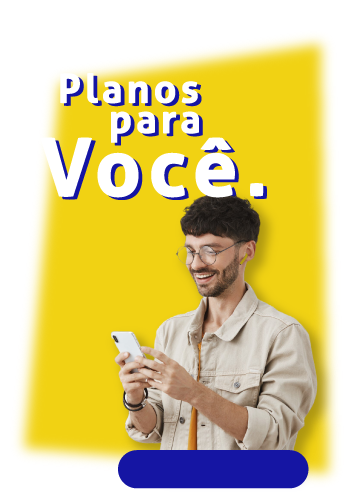
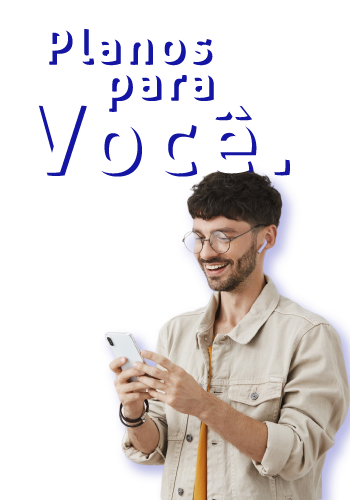
update

diff --git a/public/index.html b/public/index.html
@@ -795,14 +795,17 @@ Suporte 24/7</p>
 <h1>Planos para sua casa</h1>
 <div class="plans">
 
+    <br><br>
+    <img src="https://feitosa-github-io.vercel.app/assets/plan_titulo_casa.png" class="Planos-casa" alt="Descrição-planos-casa">
+    <br>
+    
 <div class="plan">
     <img src="https://feitosa-github-io.vercel.app/assets/plan_150.png" class="picplan" alt="Plano 150mega">       
     <img src="https://feitosa-github-io.vercel.app/assets/descri_plans_.png" class="Descrição" alt="Descrição-planos">
     <br>
     <button class="assine">Saiba mais!</button>
 </div>
-<br><br>
-    <img src="https://feitosa-github-io.vercel.app/assets/plan_titulo_casa.png" class="Planos-casa" alt="Descrição-planos-casa">
+
 <br>
 <div class="plan">
     <img src="https://feitosa-github-io.vercel.app/assets/plan_150.png" class="picplan" alt="Plano 150mega">       
